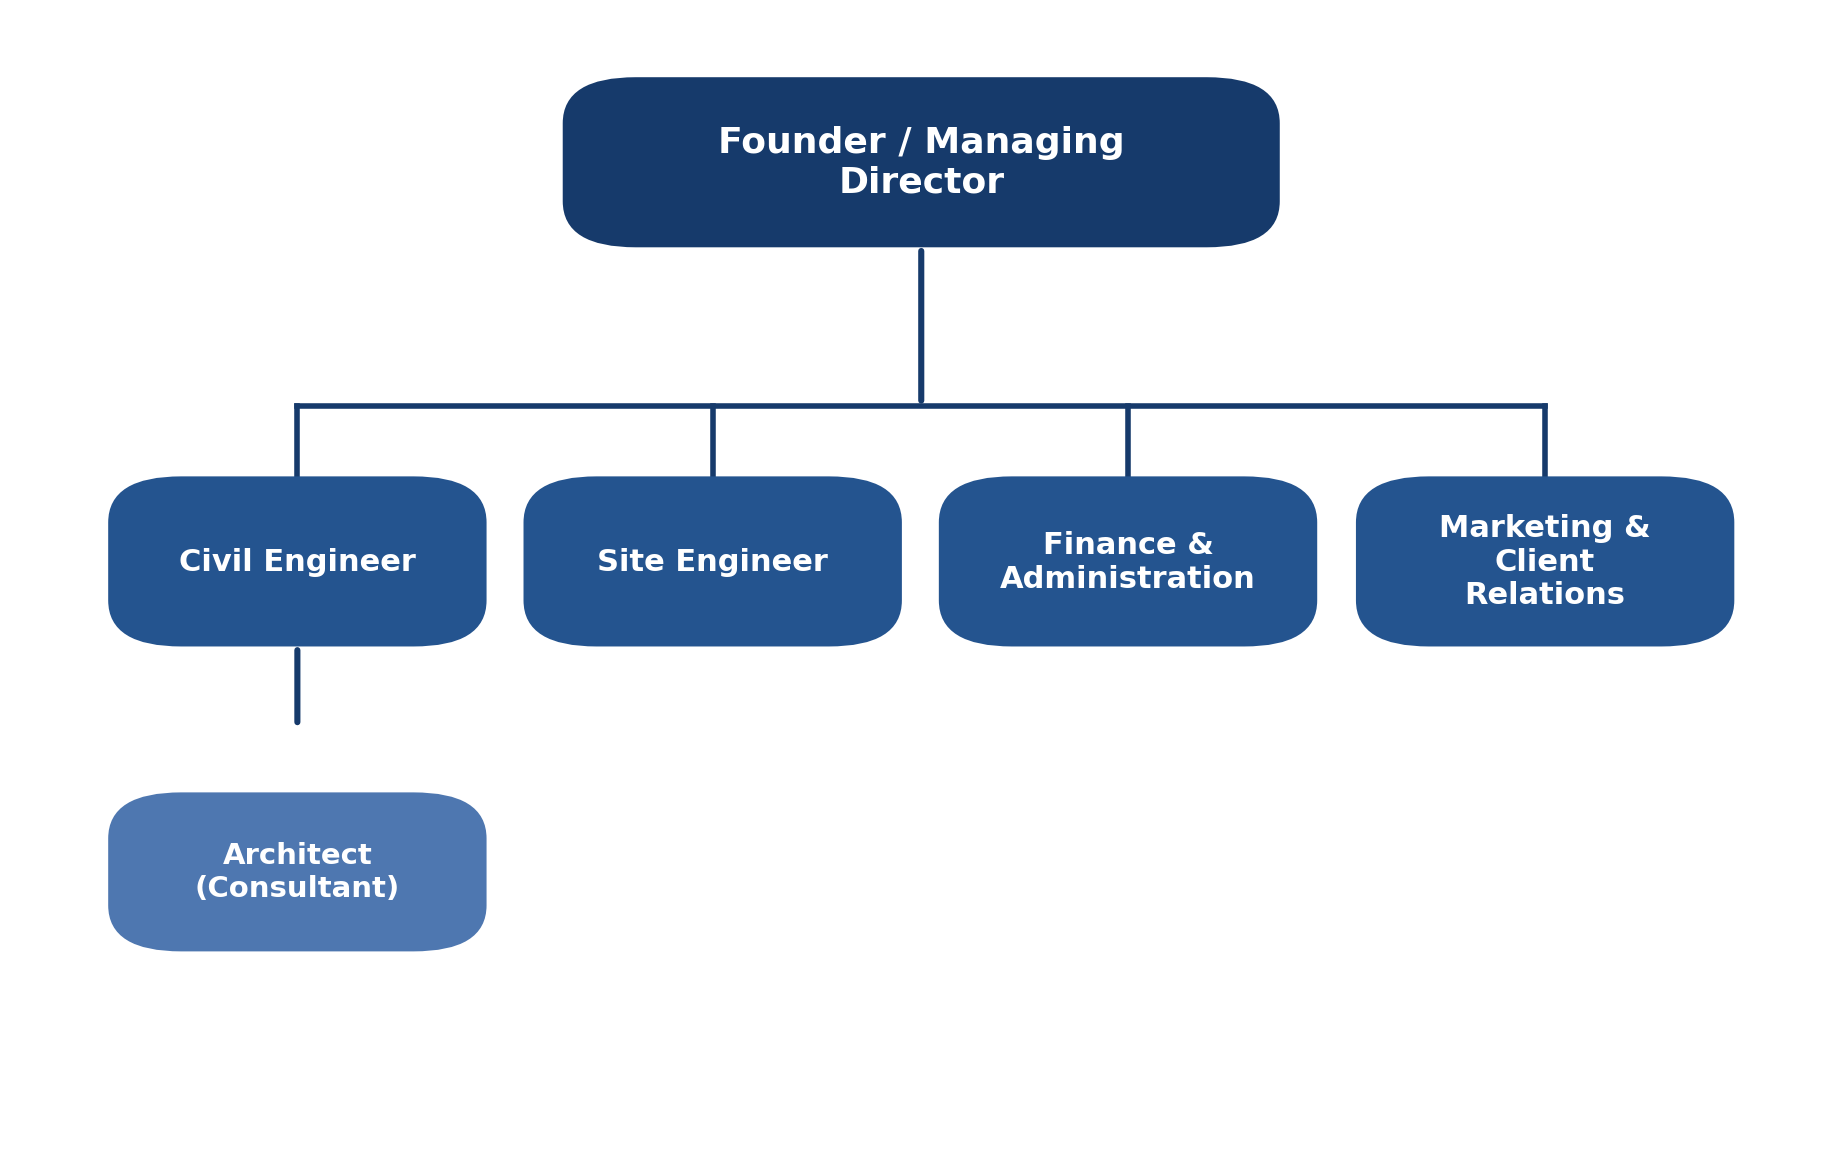
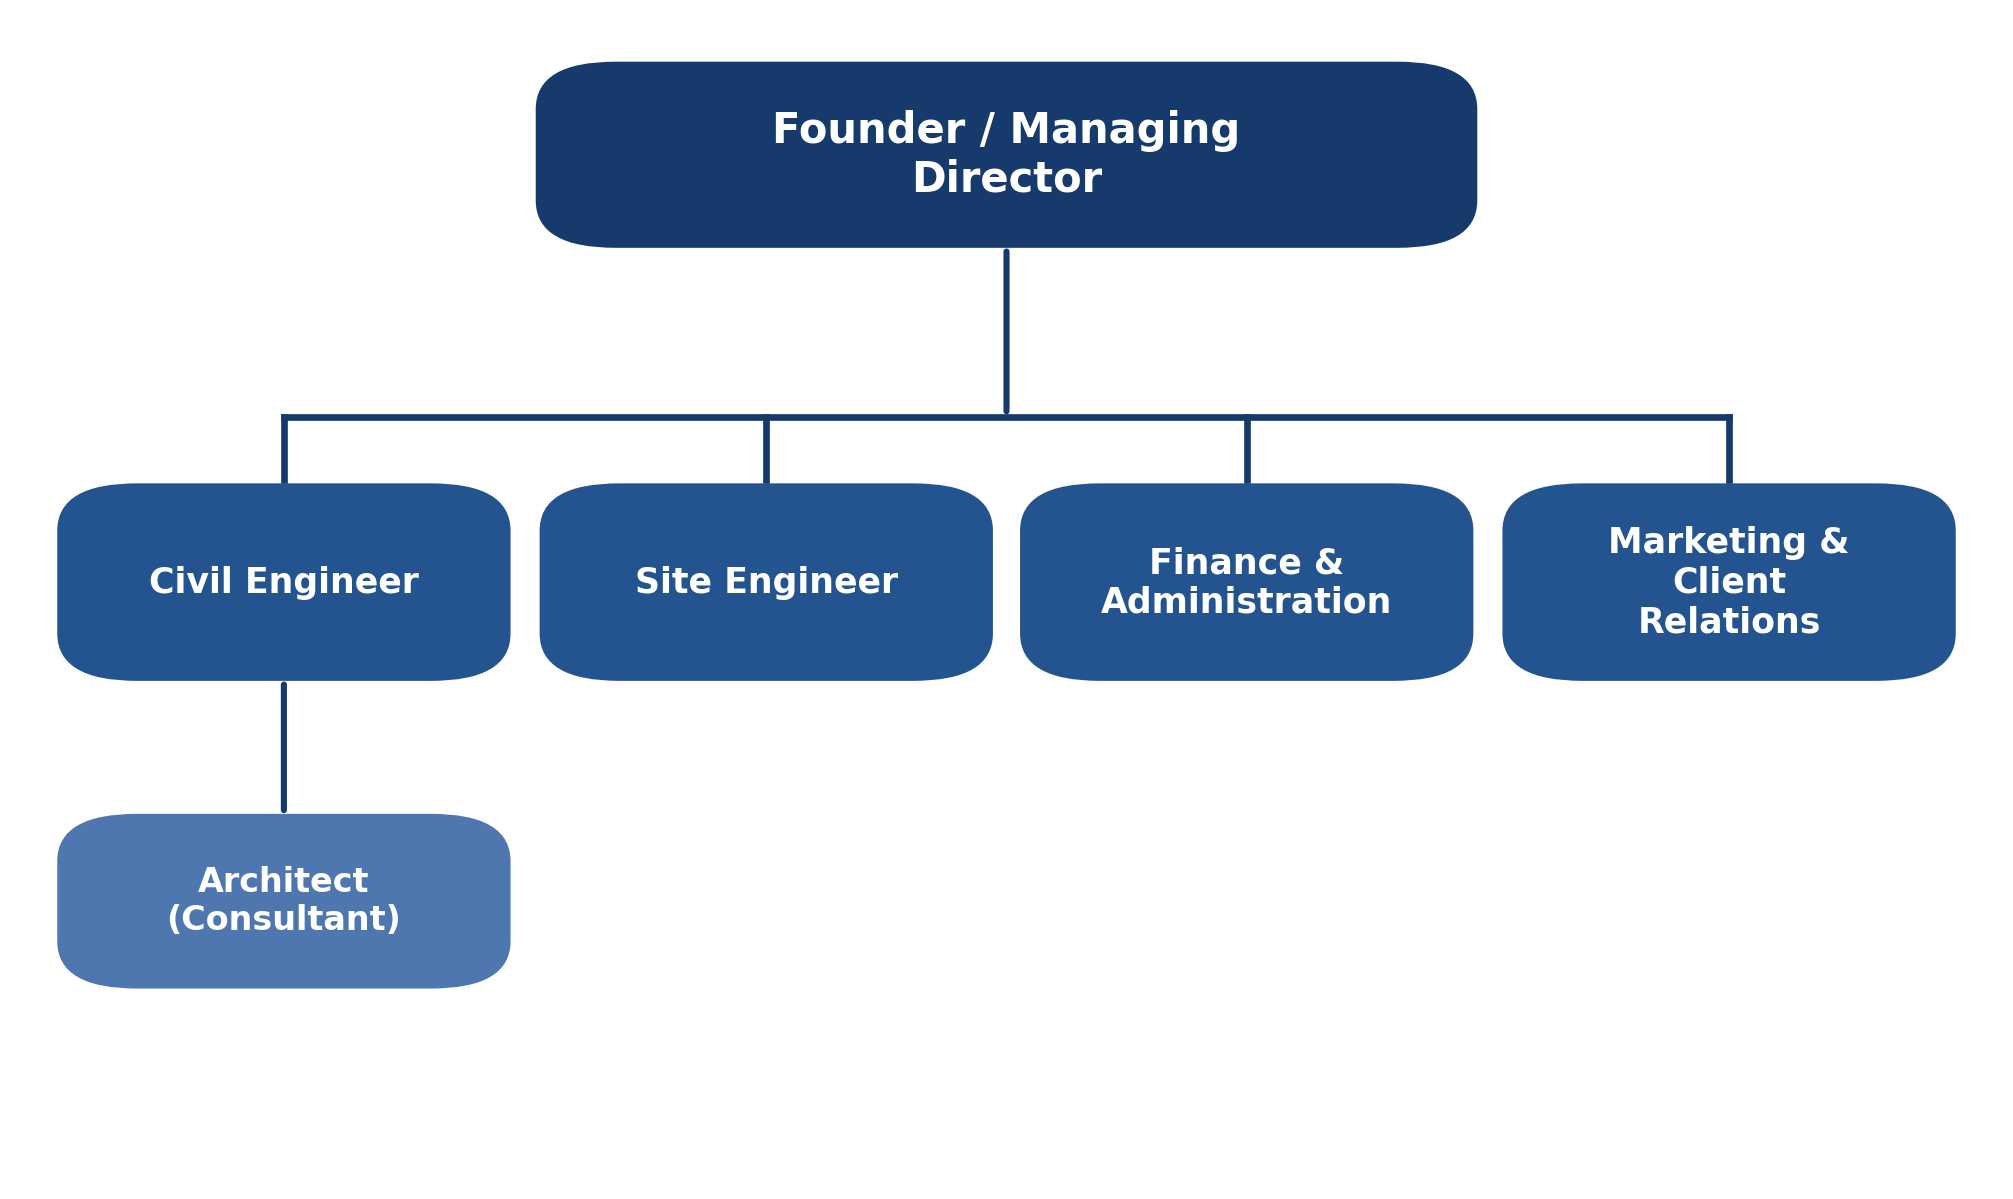
Polish pass: Key Insights boxes after diagrams, enlarged org chart, financial metrics cards, Final Takeaway box, descriptive figure captions, balanced diagram+box pages

diff --git a/BuildWise-Business-Plan/md_to_pdf.py b/BuildWise-Business-Plan/md_to_pdf.py
@@ -237,10 +237,13 @@ def render_code(codelines):
     pdf.set_text_color(*BLACK)
 
 
-def render_image(path, caption=None, chapter_end=False):
+def render_image(path, caption=None, chapter_end=False, followed_by_box=False):
     from PIL import Image
     iw, ih = Image.open(path).size
-    max_w, max_h = EPW, 185.0
+    max_w = EPW
+    # If a highlight/insights/cards box follows the figure, cap the figure height
+    # so the figure and the box comfortably share one page (no orphaned box).
+    max_h = 116.0 if followed_by_box else 185.0
     disp_w = max_w
     disp_h = disp_w * ih / iw
     if disp_h > max_h:
@@ -255,13 +258,20 @@ def render_image(path, caption=None, chapter_end=False):
         nlines = wrapped_lines(f"Figure 0: {cap_desc}", EPW, "Body", "I", 11)
         cap_h = nlines * 5.4 + 3
     block = 3 + disp_h + 2 + cap_h
-    if pdf.get_y() + block > pdf.page_break_trigger:
+    # Reserve room for a following box so the figure and its box stay together.
+    reserve = 46 if followed_by_box else 0
+    if pdf.get_y() + block + reserve > pdf.page_break_trigger:
         pdf.add_page()
         # A chapter-ending figure that lands on its own page is centred
         # vertically so the page looks balanced rather than top-heavy.
         if chapter_end:
             avail = pdf.page_break_trigger - pdf.get_y()
             pdf.ln(max(0, (avail - block) / 2 - 5))
+        elif followed_by_box:
+            # Centre the figure + its box together on the fresh page.
+            avail = pdf.page_break_trigger - pdf.get_y()
+            unit = block + 42
+            pdf.ln(max(0, (avail - unit) / 2 - 3))
     x = pdf.l_margin + (EPW - disp_w) / 2
     pdf.ln(3)
     pdf.image(path, x=x, w=disp_w)
@@ -271,7 +281,7 @@ def render_image(path, caption=None, chapter_end=False):
         pdf.set_font("Body", "I", 11)
         pdf.set_text_color(*GREY)
         pdf.set_x(pdf.l_margin)
-        pdf.multi_cell(EPW, 5.4, f"Figure {FIG['n']}: {cap_desc}", align="C",
+        pdf.multi_cell(EPW, 5.4, f"Figure {FIG['n']}. {cap_desc}", align="C",
                        new_x=XPos.LMARGIN, new_y=YPos.NEXT)
         pdf.ln(3)
     pdf.set_text_color(*BLACK)
@@ -338,6 +348,48 @@ def render_cards(cards):
         x += cw + gap
     pdf.set_y(y0 + ch)
     pdf.ln(5)
+    pdf.set_text_color(*BLACK)
+
+
+def render_insights(title, items):
+    """A shaded box with a navy accent bar and a short bulleted insight list."""
+    pad = 4.0
+    bar = 3.0
+    inner_w = EPW - bar - 2 * pad
+    bw = 5.0
+    lh = 5.6
+    th = (wrapped_lines(title, inner_w, "Head", "B", 12) * 6.4) if title else 0
+    heights = [wrapped_lines(_md_to_plain_marked(it), inner_w - bw, "Body", "", 11,
+                             markdown=True) * lh for it in items]
+    h = pad + th + (2 if title else 0) + sum(heights) + len(items) * 1.3 + pad
+    if pdf.get_y() + h + 6 > pdf.page_break_trigger:
+        pdf.add_page()
+    pdf.ln(2)
+    y0 = pdf.get_y()
+    pdf.set_fill_color(*ROW_ALT)
+    pdf.rect(pdf.l_margin, y0, EPW, h, style="F")
+    pdf.set_fill_color(*NAVY)
+    pdf.rect(pdf.l_margin, y0, bar, h, style="F")
+    tx = pdf.l_margin + bar + pad
+    cy = y0 + pad
+    if title:
+        pdf.set_xy(tx, cy)
+        pdf.set_font("Head", "B", 12)
+        pdf.set_text_color(*NAVY)
+        pdf.multi_cell(inner_w, 6.4, title, new_x=XPos.LMARGIN, new_y=YPos.NEXT)
+        cy = pdf.get_y() + 2
+    for it, ih in zip(items, heights):
+        pdf.set_xy(tx, cy)
+        pdf.set_font("Body", "", 11)
+        pdf.set_text_color(*NAVY)
+        pdf.cell(bw, lh, "\u2022")
+        pdf.set_xy(tx + bw, cy)
+        pdf.set_text_color(*BLACK)
+        pdf.multi_cell(inner_w - bw, lh, _md_to_plain_marked(it), markdown=True,
+                       new_x=XPos.LMARGIN, new_y=YPos.NEXT)
+        cy += ih + 1.3
+    pdf.set_y(y0 + h)
+    pdf.ln(4)
     pdf.set_text_color(*BLACK)
 
 
@@ -460,9 +512,12 @@ def build(toc_pages):
             k = i + 1
             while k < len(lines) and (lines[k].strip() == "" or lines[k].strip() == "---"):
                 k += 1
-            chapter_end = (k >= len(lines)) or lines[k].strip().startswith("# ")
+            nxt = lines[k].strip() if k < len(lines) else ""
+            chapter_end = (k >= len(lines)) or nxt.startswith("# ")
+            followed_by_box = nxt.startswith(":::")
             if os.path.exists(img_path):
-                render_image(img_path, caption, chapter_end=chapter_end)
+                render_image(img_path, caption, chapter_end=chapter_end,
+                             followed_by_box=followed_by_box)
             i += 1
             continue
 
@@ -489,6 +544,20 @@ def build(toc_pages):
                 i += 1
             if cards:
                 render_cards(cards)
+            i += 1
+            continue
+
+        if stripped.startswith(":::insights"):
+            title = stripped[len(":::insights"):].strip() or "Key Insights"
+            items = []
+            i += 1
+            while i < len(lines) and lines[i].strip() != ":::":
+                s = lines[i].strip()
+                if s:
+                    items.append(re.sub(r"^[-*\u2022]\s*", "", s))
+                i += 1
+            if items:
+                render_insights(title, items)
             i += 1
             continue
 

diff --git a/BuildWise-Business-Plan/md_to_docx.py b/BuildWise-Business-Plan/md_to_docx.py
@@ -76,7 +76,7 @@ def fig_caption(caption):
     FIG["n"] += 1
     mm = re.match(r"^Figure\s*\d*\s*:\s*(.*)$", caption)
     desc = mm.group(1) if mm else caption
-    return f"Figure {FIG['n']}: {desc}"
+    return f"Figure {FIG['n']}. {desc}"
 
 
 for lvl, sz in [(1, 18), (2, 15), (3, 13), (4, 12)]:
@@ -207,12 +207,12 @@ def add_code_block(codelines):
             run.add_break()
 
 
-def add_image(path, caption=None):
+def add_image(path, caption=None, followed_by_box=False):
     from PIL import Image
     iw, ih = Image.open(path).size
     # Wide diagrams get near-full width; tall diagrams are capped by height.
     max_w_in = 6.4
-    max_h_in = 7.4
+    max_h_in = 4.6 if followed_by_box else 7.4
     w_in = max_w_in
     if (w_in * ih / iw) > max_h_in:
         w_in = max_h_in * iw / ih
@@ -327,6 +327,27 @@ def add_cards(cards):
         p2.alignment = WD_ALIGN_PARAGRAPH.CENTER
         p2.paragraph_format.space_after = Pt(0)
         add_runs(p2, lab, font=BODY_FONT, size=9.5, color="D6E0EE")
+    doc.add_paragraph().paragraph_format.space_after = Pt(4)
+
+
+def add_insights(title, items):
+    """A shaded box with a navy left accent bar and a short bulleted list."""
+    table = doc.add_table(rows=1, cols=1)
+    table.alignment = WD_TABLE_ALIGNMENT.CENTER
+    set_cell_margins(table, top=110, bottom=110, left=180, right=150)
+    cell = table.rows[0].cells[0]
+    shade_cell(cell, ROW_ALT)
+    set_cell_left_border(cell, NAVY, sz=30)
+    p = cell.paragraphs[0]
+    p.paragraph_format.space_after = Pt(3)
+    add_runs(p, title, font=HEAD_FONT, size=12, color=NAVY)
+    for r in p.runs:
+        r.font.bold = True
+    for it in items:
+        pi = cell.add_paragraph()
+        pi.paragraph_format.space_after = Pt(2)
+        pi.paragraph_format.left_indent = Cm(0.3)
+        add_runs(pi, "\u2022  " + it, font=BODY_FONT, size=11, color=BLACK)
     doc.add_paragraph().paragraph_format.space_after = Pt(4)
 
 
@@ -490,8 +511,12 @@ while i < len(lines):
         if j < len(lines) and re.match(r"^\*Figure.*\*$", lines[j].strip()):
             caption = lines[j].strip().strip("*")
             i = j
+        k = i + 1
+        while k < len(lines) and (lines[k].strip() == "" or lines[k].strip() == "---"):
+            k += 1
+        followed_by_box = k < len(lines) and lines[k].strip().startswith(":::")
         if os.path.exists(img_path):
-            add_image(img_path, caption)
+            add_image(img_path, caption, followed_by_box=followed_by_box)
         i += 1
         continue
 
@@ -520,6 +545,21 @@ while i < len(lines):
             i += 1
         if cards:
             add_cards(cards)
+        i += 1
+        continue
+
+    # Key Insights box
+    if stripped.startswith(":::insights"):
+        title = stripped[len(":::insights"):].strip() or "Key Insights"
+        items = []
+        i += 1
+        while i < len(lines) and lines[i].strip() != ":::":
+            s = lines[i].strip()
+            if s:
+                items.append(re.sub(r"^[-*\u2022]\s*", "", s))
+            i += 1
+        if items:
+            add_insights(title, items)
         i += 1
         continue
 

diff --git a/BuildWise-Business-Plan/make_diagrams.py b/BuildWise-Business-Plan/make_diagrams.py
@@ -90,19 +90,19 @@ def workflow():
 
 # ============ 2. ORGANISATION CHART ============
 def org_chart():
-    fig, ax = new_ax(11.5, 7.2)
-    box(ax, 50, 88, 40, 15, "Founder / Managing Director", fc=NAVY, fs=13, wrap=22)
-    lvl2 = [("Civil Engineer", 15), ("Site Engineer", 38.3),
-            ("Finance & Administration", 61.6), ("Marketing & Client Relations", 85)]
+    fig, ax = new_ax(12.6, 7.4)
+    box(ax, 50, 89, 48, 16, "Founder / Managing Director", fc=NAVY, fs=15, wrap=24)
+    lvl2 = [("Civil Engineer", 13), ("Site Engineer", 37.7),
+            ("Finance & Administration", 62.3), ("Marketing & Client Relations", 87)]
     busy = 60
-    arrow(ax, (50, 80.5), (50, busy + 6), style="-")
-    ax.plot([lvl2[0][1], lvl2[-1][1]], [busy + 6, busy + 6], color=LINE, lw=2, zorder=2)
+    arrow(ax, (50, 81), (50, busy + 6), style="-")
+    ax.plot([lvl2[0][1], lvl2[-1][1]], [busy + 6, busy + 6], color=LINE, lw=2.4, zorder=2)
     for name, x in lvl2:
-        ax.plot([x, x], [busy + 6, 52 + 7.5], color=LINE, lw=2, zorder=2)
-        box(ax, x, 52, 21, 15, name, fc=NAVY2, fs=11, wrap=14)
+        ax.plot([x, x], [busy + 6, 52 + 8.5], color=LINE, lw=2.4, zorder=2)
+        box(ax, x, 51.5, 23, 17, name, fc=NAVY2, fs=12.5, wrap=14)
     # third level under Civil Engineer
-    arrow(ax, (lvl2[0][1], 44.5), (lvl2[0][1], 30 + 7), style="-")
-    box(ax, lvl2[0][1], 24, 21, 14, "Architect (Consultant)", fc=BLUE, fs=10.5, wrap=14)
+    arrow(ax, (lvl2[0][1], 43), (lvl2[0][1], 31), style="-")
+    box(ax, lvl2[0][1], 23.5, 23, 15, "Architect (Consultant)", fc=BLUE, fs=12, wrap=14)
     save(fig, "org_chart.png")
 
 

diff --git a/BuildWise-Business-Plan/Business_Plan_Report.md b/BuildWise-Business-Plan/Business_Plan_Report.md
@@ -264,6 +264,11 @@ BuildWise offers an integrated portfolio of construction services, allowing cust
 
 Each service is delivered with the same underlying commitments: transparent pricing, milestone billing, quality checkpoints, structured documentation, and after-sales support. This consistency is what converts first-time customers into long-term references.
 
+:::insights Business Insight
+Covering the full project lifecycle lets customers work with a single trusted partner.
+Consistent commitments across every service turn first-time clients into long-term references.
+:::
+
 ---
 
 # CHAPTER 6: BUSINESS MODEL
@@ -385,6 +390,11 @@ BuildWise positions itself as the **bridge** between these two categories. It of
 
 *Figure: SWOT analysis of BuildWise Constructions Pvt. Ltd., summarising internal strengths and weaknesses alongside external opportunities and threats.*
 
+:::insights Strategic Insight
+BuildWise converts transparency and service quality into a genuine competitive edge.
+Its main threats — cost inflation and local competition — are managed through disciplined estimation and phased growth.
+:::
+
 ---
 
 # CHAPTER 8: MARKETING STRATEGY
@@ -419,6 +429,11 @@ Marketing spend is intentionally modest in Year 1 and scales with revenue. Early
 
 *Figure: BuildWise's customer-acquisition funnel, from initial awareness to long-term advocacy.*
 
+:::insights Key Insights
+Early demand is driven by referrals and completed-project reputation rather than advertising spend.
+Paid and digital channels are scaled only once revenue can support them.
+:::
+
 ---
 
 # CHAPTER 9: OPERATIONS PLAN
@@ -446,6 +461,11 @@ The company enforces basic occupational safety practices at every site, includin
 ![Quality Assurance and Safety](quality_safety.png)
 
 *Figure: BuildWise's stage-wise quality-assurance checkpoints and the safety standards enforced on every site.*
+
+:::insights Key Insights
+A single, repeatable workflow keeps every project consistent and transparent.
+Stage-wise quality checkpoints and on-site safety protect customers and workers alike.
+:::
 
 ---
 
@@ -499,6 +519,11 @@ As the company grows, specialised departments are introduced — dedicated procu
 
 *Figure: BuildWise's lean startup-stage organisation structure, with specialised departments introduced as the company grows.*
 
+:::insights Key Insights
+A lean, multi-role team keeps overhead low during the startup stage.
+Specialised departments are added only as revenue and project volume grow.
+:::
+
 ---
 
 # CHAPTER 12: FINANCIAL PLAN
@@ -543,6 +568,13 @@ Company registration itself is inexpensive in India (typically a few thousand to
 - A corporate tax rate of approximately 25% is applied to profits.
 - Revenue grows steadily as the company completes projects, earns referrals, and expands capacity.
 - Construction input costs are assumed to rise by 3–5% annually and are built into quotations [5].
+
+:::cards
+~80% :: Direct Project Costs
+~20% :: Contribution Margin
+₹1.50 Cr :: Break-even Revenue
+~7.5% :: Year 3 Net Margin
+:::
 
 ## 12.4 Revenue Projections
 
@@ -600,6 +632,11 @@ The startup capital is sufficient to fund setup, initial operations, and a worki
 
 *Figure: Break-even analysis — total revenue overtakes total cost at approximately ₹1.50 Crore.*
 
+:::insights Key Insights
+Break-even is reached within Year 1 at roughly ₹1.50 Crore of revenue.
+Milestone billing and a contingency reserve safeguard cash flow while the company scales.
+:::
+
 ---
 
 # CHAPTER 13: RISK ASSESSMENT
@@ -634,6 +671,11 @@ Each technology investment is justified by the scale and revenue the business ha
 ![Technology Adoption Roadmap](tech_roadmap.png)
 
 *Figure: BuildWise's technology adoption roadmap, introducing capabilities phase by phase as the business grows.*
+
+:::insights Key Insights
+Technology is adopted phase by phase, funded by proven business growth.
+Each tool is introduced only to strengthen an operation that already works.
+:::
 
 ---
 
@@ -672,6 +714,11 @@ The roadmap reinforces the company's central principle: growth first, technology
 
 *Figure: BuildWise's five-year growth and expansion timeline, from first projects to technology-enabled operations across India.*
 
+:::insights Key Insights
+Expansion follows a trust-first sequence: deliver, earn referrals, then scale.
+Multi-city, commercial, and premium segments come only after local success is proven.
+:::
+
 ---
 
 # CHAPTER 16: SUSTAINABILITY AND CSR STRATEGY
@@ -688,6 +735,11 @@ BuildWise intends to contribute to the communities in which it operates through 
 
 *Figure: BuildWise's sustainability and ESG framework across environmental, social, and governance pillars.*
 
+:::insights Key Insights
+Sustainability spans environmental, social, and governance responsibilities together.
+ESG and CSR commitments scale in proportion to the company's growth and profitability.
+:::
+
 ---
 
 # CHAPTER 17: CONCLUSION
@@ -697,6 +749,10 @@ BuildWise Constructions Pvt. Ltd. is designed as a realistic, disciplined, and c
 The plan addresses genuine, well-documented problems in the Indian construction market and proposes a differentiated position built on transparency, reliability, and long-term relationships rather than the lowest price. The financial projections are conservative and achievable, and the phased growth model minimises risk at every stage.
 
 BuildWise's ultimate ambition is to become one of India's most trusted technology-enabled construction companies. This report demonstrates that such an ambition can be pursued responsibly. True to its founding motto — *"Building Trust, Brick by Brick"* — the company intends to grow one excellent project, one satisfied customer, and one reinvested rupee at a time.
+
+:::callout Final Takeaway
+BuildWise pursues an ambitious vision responsibly — earning trust, revenue, and capability one project at a time, and adopting technology only when it strengthens the customer experience.
+:::
 
 ![Key Takeaways](key_takeaways.png)
 